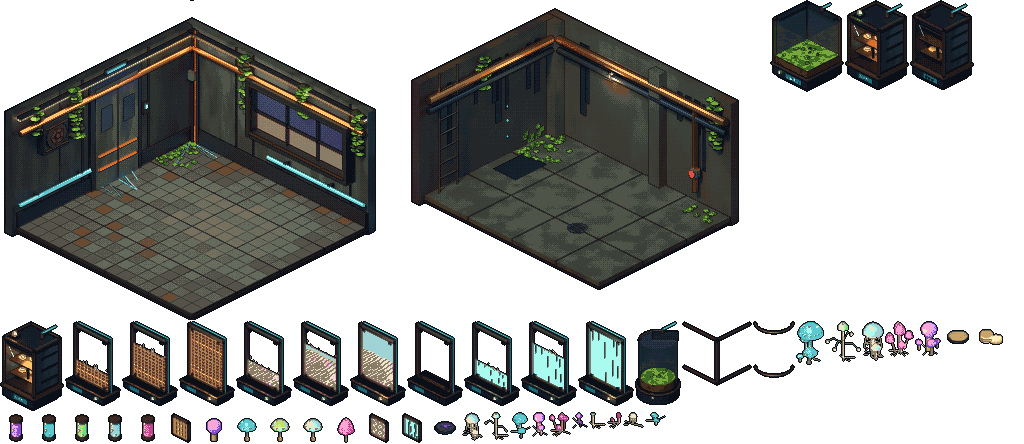
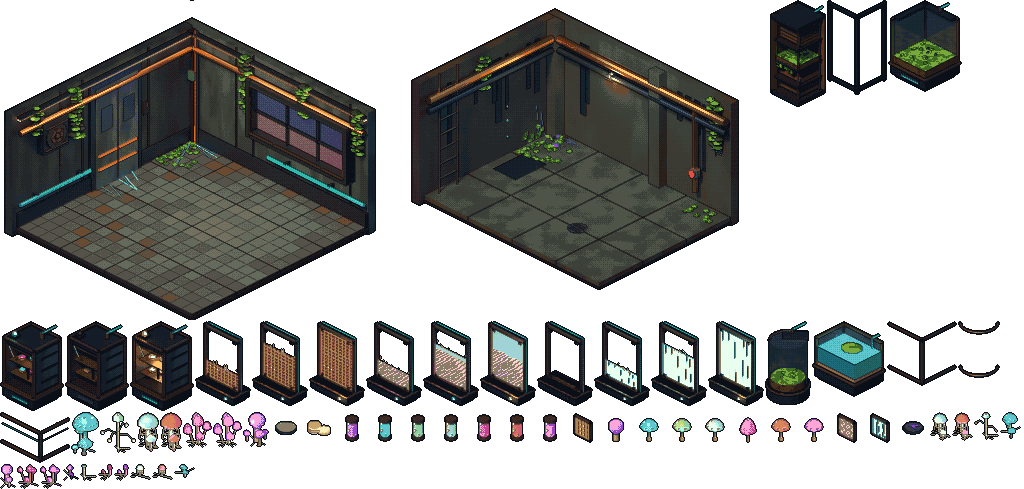
TP4: päivitetty atlas (akvaario, palvelinkaappi, yöruusu, verkkoheltta) ja omat astiaspritet käyttöön
Claude-Session: https://claude.ai/code/session_01JS56Z68PdBiqj35brs2hnv

diff --git a/koti/js/iso.js b/koti/js/iso.js
@@ -183,7 +183,8 @@ function drawShroom(s, x, y, sway){
 // harvinaiset astiat ilman omia spritejä: terraario sävytettynä
 const RARE = { akvaario:['terraario', ['#3fb8d8', 0.35]], palvelin:['terraario', ['#4a2a36', 0.45]] };
 function vesselSprites(type, v){
-  const [base, tint] = RARE[type] || [type === 'purkki' ? 'lasipurkki' : 'terraario', null];
+  const own = type === 'purkki' ? 'lasipurkki' : type;
+  const [base, tint] = (hasSprite('astia_' + own) || ATL.state !== 'ok') ? [own, null] : (RARE[type] || ['terraario', null]);
   const n = 'astia_' + base;
   return [spriteV(n, v, tint), spriteV(n + '_etu', v, tint)];
 }

diff --git a/docs/grafiikka-koti.md b/docs/grafiikka-koti.md
@@ -32,14 +32,17 @@ Muutokset alkuperäiseen listaan (prototyypin loppusuunnitelma 2026-11-13): kuiv
 
 **Astiat** (yksi ruutu, kaksi kerrosta, sieni piirretään väliin):
 - `astia_terraario` + `astia_terraario_etu`, `astia_lasipurkki` + `astia_lasipurkki_etu` (lasilieriö teräsjalustalla).
+- Harvinaiset löydöt: `astia_akvaario` + `_etu` (matala allas, sieni kivisaarekkeella veden yläpuolella) ja `astia_palvelin` + `_etu` (ruostunut räkkikaappi, sieni keskihyllyn mullassa, ei näyttöjä eikä valoja).
 
-**Sienet** `sieni_<kanta>_<itu|nuori|kypsa>`, kannat `heltta` (siniheltta), `ruusu` (ruususieni), `hamara` (hämäränuppi), `kalvo` (kalvoheltta, verkkomainen kalvohame), `hoitaja` (hoitajasieni, sivuille kurottavat rihmat ja sumupisarat). Kypsä sieni mahtuu molempiin astioihin.
+**Sienet** `sieni_<kanta>_<itu|nuori|kypsa>`, kannat `heltta` (siniheltta), `ruusu` (ruususieni), `hamara` (hämäränuppi), `kalvo` (kalvoheltta, verkkomainen kalvohame), `hoitaja` (hoitajasieni, sivuille kurottavat rihmat ja sumupisarat), `yoruusu` (yöruusu, ruususienen rypäsmuoto omin värein) ja `verkko` (verkkoheltta, kalvoheltan verkkomuoto omin värein). Kypsä sieni mahtuu molempiin astioihin. Uusien kantojen ja hoitajasienen värit on lisätty `pix.py`:n palettiin (rivi 6).
 
 **Laitteet** (yksi ruutu):
 - `laite_hautomo_<tyhja|kaynnissa|valmis>`.
 - `laite_kehikko_tyhja` ja `laite_kehikko_<tuote>_<kasvaa_1|kasvaa_2|valmis>`, tuotteet `valokalvo` (siniheltasta, elävä valaisin), `lamporihma` (ruususienestä), `suodatin` (itiösuodatin, kalvoheltasta). Kasvusto täyttää kehyksen alhaalta ylös; valmis = meripihkainen merkkivalo.
 
 **Kuvakkeet** 32×32: `ikoni_hopea`, `ikoni_agar`, `ikoni_villi`, `ikoni_itio_<kanta>` (itiöampulli), `ikoni_sato_<kanta>`, `ikoni_<tuote>`.
+
+**Moodboard-päätökset** (`docs/moodboard-biopunk.md`, Juuso 2026-11-13) on otettu atlakseen: ei näyttöjä, konsoleita eikä kylttejä (jalustoissa ravinnenesteen ikkuna, tila näkyy teal- tai meripihkaisesta itiökuplasta ja maljojen väristä), ei myrkynvihreää (merkkivalot ja putkien neste hillittyä tealia), valolista keskisävyssä, villiä violettia rihmastoa vähän kellarin takanurkassa ja seinän raossa, huone pysyy siistinä. Hautomo: tyhjä = tumma, käynnissä = maljoissa himmeät kantojen värit, valmis = meripihka.
 
 **Uuden kannan lisääminen:** lisää värit `STRAIN`-taulukkoon ja rivi `KANNAT`-taulukkoon (nimi ja muotofunktio; muodon voi lainata toiselta kannalta tai kirjoittaa uuden `muoto_*`-funktion). Spritet, kuvakkeet ja atlas-merkinnät syntyvät automaattisesti. Uusi kehikkotuote lisätään samoin `TUOTTEET`-taulukkoon ja `membrane()`-funktioon.
 
